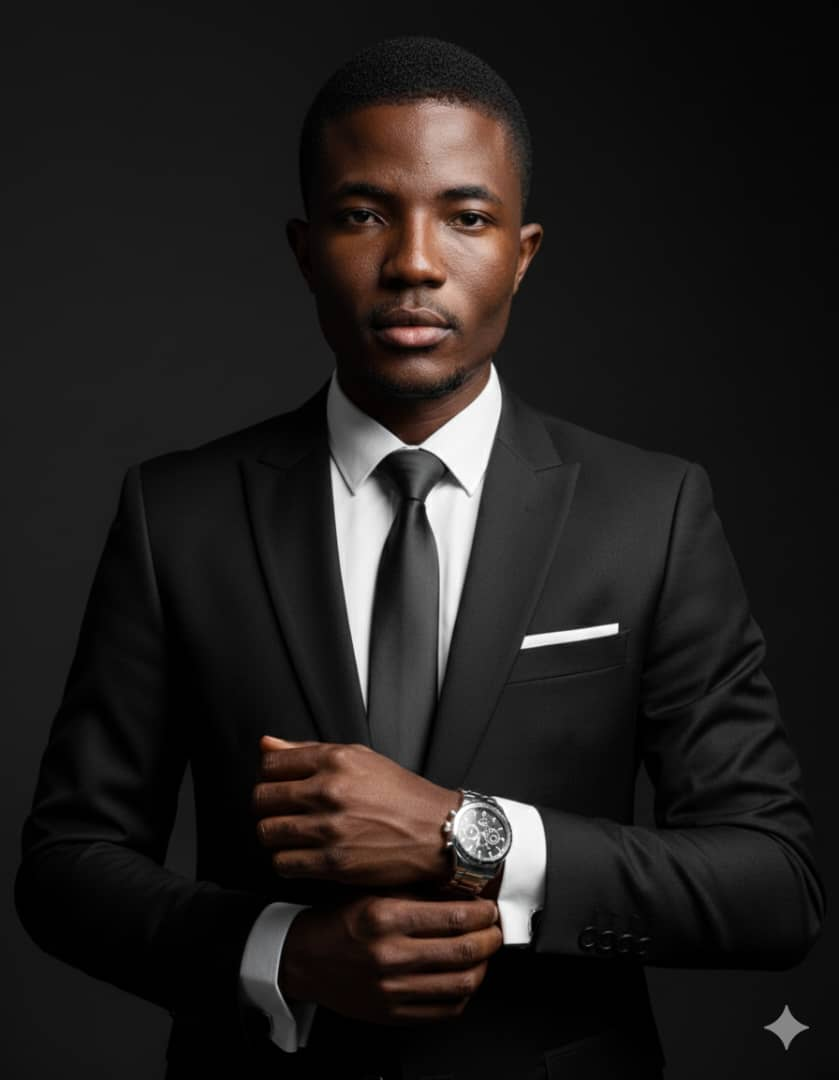
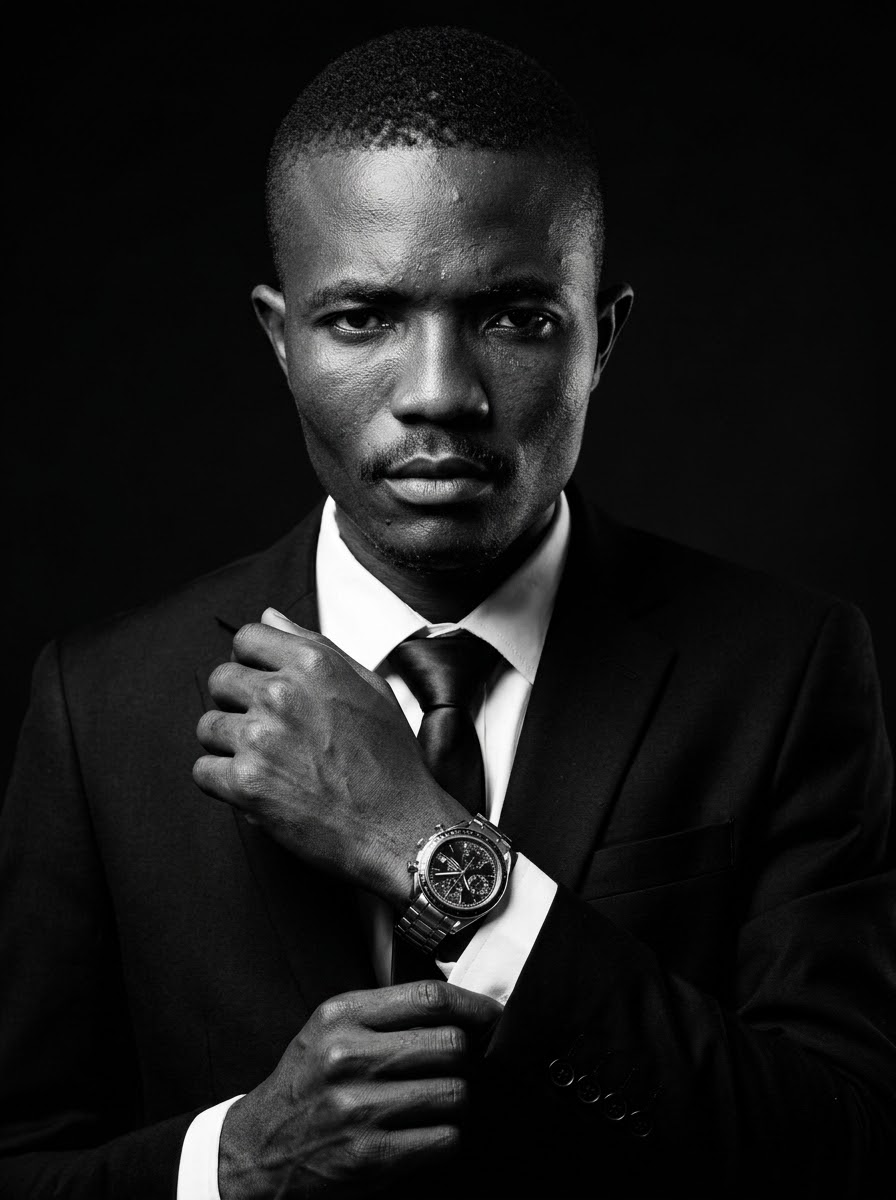
photo new

diff --git a/src/components/sections/HeroSection.tsx b/src/components/sections/HeroSection.tsx
@@ -111,7 +111,7 @@ const HeroSection: React.FC = () => {
               <img 
                 src={profileImg}
                 alt="Portrait professionnel de Lidao ABIYI" 
-                className="w-full h-full object-cover object-top scale-125 translate-y-3 origin-top"
+                className="w-full h-full object-cover object-[center_15%]"
                 loading="eager"
               />
               <div className="absolute inset-0 bg-gradient-to-t from-background/40 via-transparent to-transparent pointer-events-none" />
